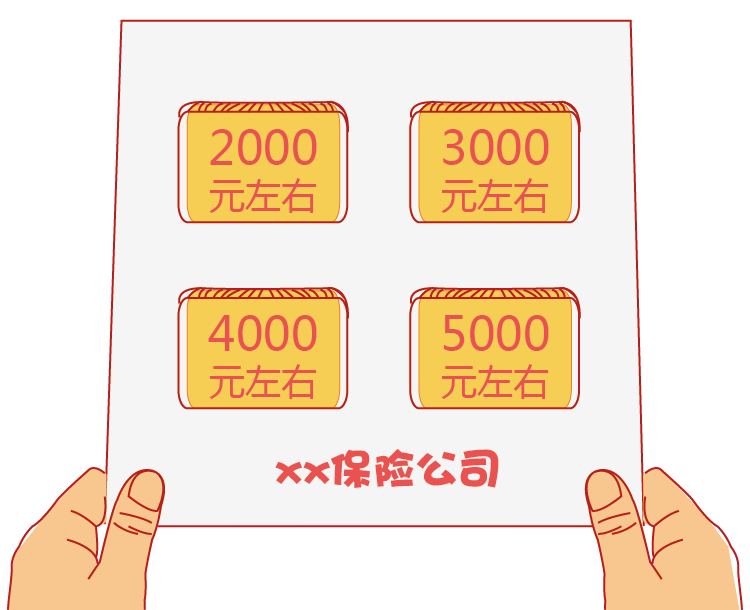
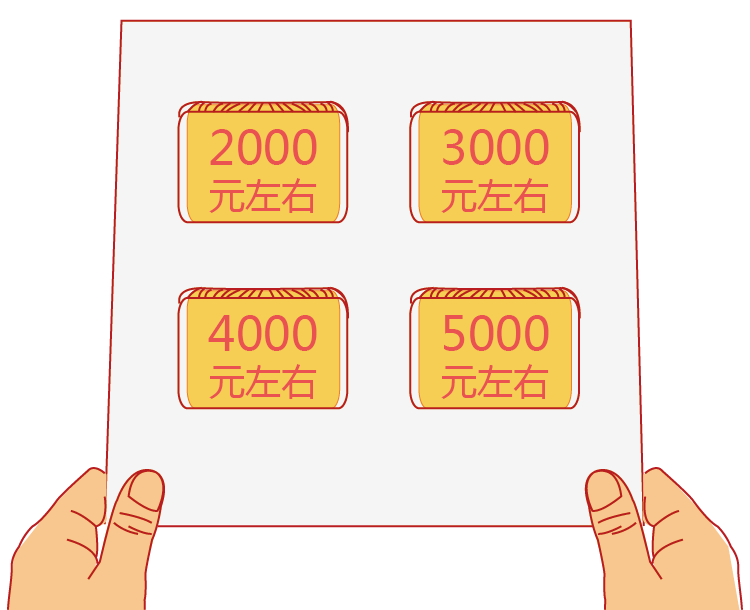
更新

Changed region(s): [[0.368, 0.7164, 0.6747, 0.8098]]

diff --git a/css/style.css b/css/style.css
@@ -4194,6 +4194,16 @@ html#html body {
   right: 2.5rem;
   -webkit-animation: fadeIn 1s 0.8s linear both ;
 }
+.Y5-cons .sc-con-2 .sc-3 {
+  background: url(../images/Y5-zheng-tit.png) no-repeat;
+  width: 7.87401575rem;
+  height: 2.36220472rem;
+  background-size: cover;
+  position: absolute;
+  top: 3.5rem;
+  left: 4.1rem;
+  -webkit-animation: swing 1.3s 0s linear both infinite;
+}
 .Y5-cons .sc-con-3 .sc-1 {
   background: url(../images/sc-3-1.png) no-repeat;
   width: 3.04347826rem;
@@ -4243,6 +4253,12 @@ html#html body {
   bottom: 0rem;
   left: 0rem;
   -webkit-animation: fadeInUpBig 1s 1s linear both ;
+}
+.Y5-cons .sc-con-4 .sc-2 .bx-name {
+  font-size: 0.75rem;
+  color: #E7404F;
+  margin-top: 9.75rem;
+  text-align: center;
 }
 .Y5-cons .sc-con-5 .sc-1 {
   background: url(../images/sc-5-1.png) no-repeat;

diff --git a/css/style.less b/css/style.less
@@ -1617,6 +1617,16 @@ html#html body {height: 100%;}
 			right: 50*@rem;
 			.fadeIn-2;
 		}
+		.sc-3{
+			background: url(../images/Y5-zheng-tit.png) no-repeat;
+			width: 400/2.54*@rem;
+			height: 120/2.54*@rem;
+			background-size: cover;
+			position: absolute;
+			top: 70*@rem;
+			left: 82*@rem;
+			.swing;
+		}
 	}
 	.sc-con-3{
 		.sc-1{
@@ -1670,6 +1680,12 @@ html#html body {height: 100%;}
 			bottom: 0*@rem;
 			left: 0*@rem;
 			.fadeInUpBig;
+			.bx-name{
+				font-size: 15*@rem;
+				color: #E7404F;
+				margin-top: 195*@rem;
+				text-align: center;
+			}
 		}
 	}
 	.sc-con-5{

diff --git a/Y5-4.php b/Y5-4.php
@@ -12,7 +12,9 @@
             </div>
             <div class="sc-con-4">
                 <div class="sc-1"></div>
-                <div class="sc-2"></div>
+                <div class="sc-2">
+                    <div class="bx-name">china中国平安</div>
+                </div>
             </div>
             <a href="Y5-5.php" class="hbtn btn4-1"></a>
             <a href="Y5-5.php" class="hbtn btn4-2"></a>

diff --git a/Y5-2.php b/Y5-2.php
@@ -13,6 +13,7 @@
             <div class="sc-con-2">
                 <div class="sc-1"></div>
                 <div class="sc-2"></div>
+                <div class="sc-3"></div>
             </div>
             <a href="Y5-3.php" class="hbtn btn2-1"></a>
             <a href="Y5-3.php" class="hbtn btn2-2"></a>
